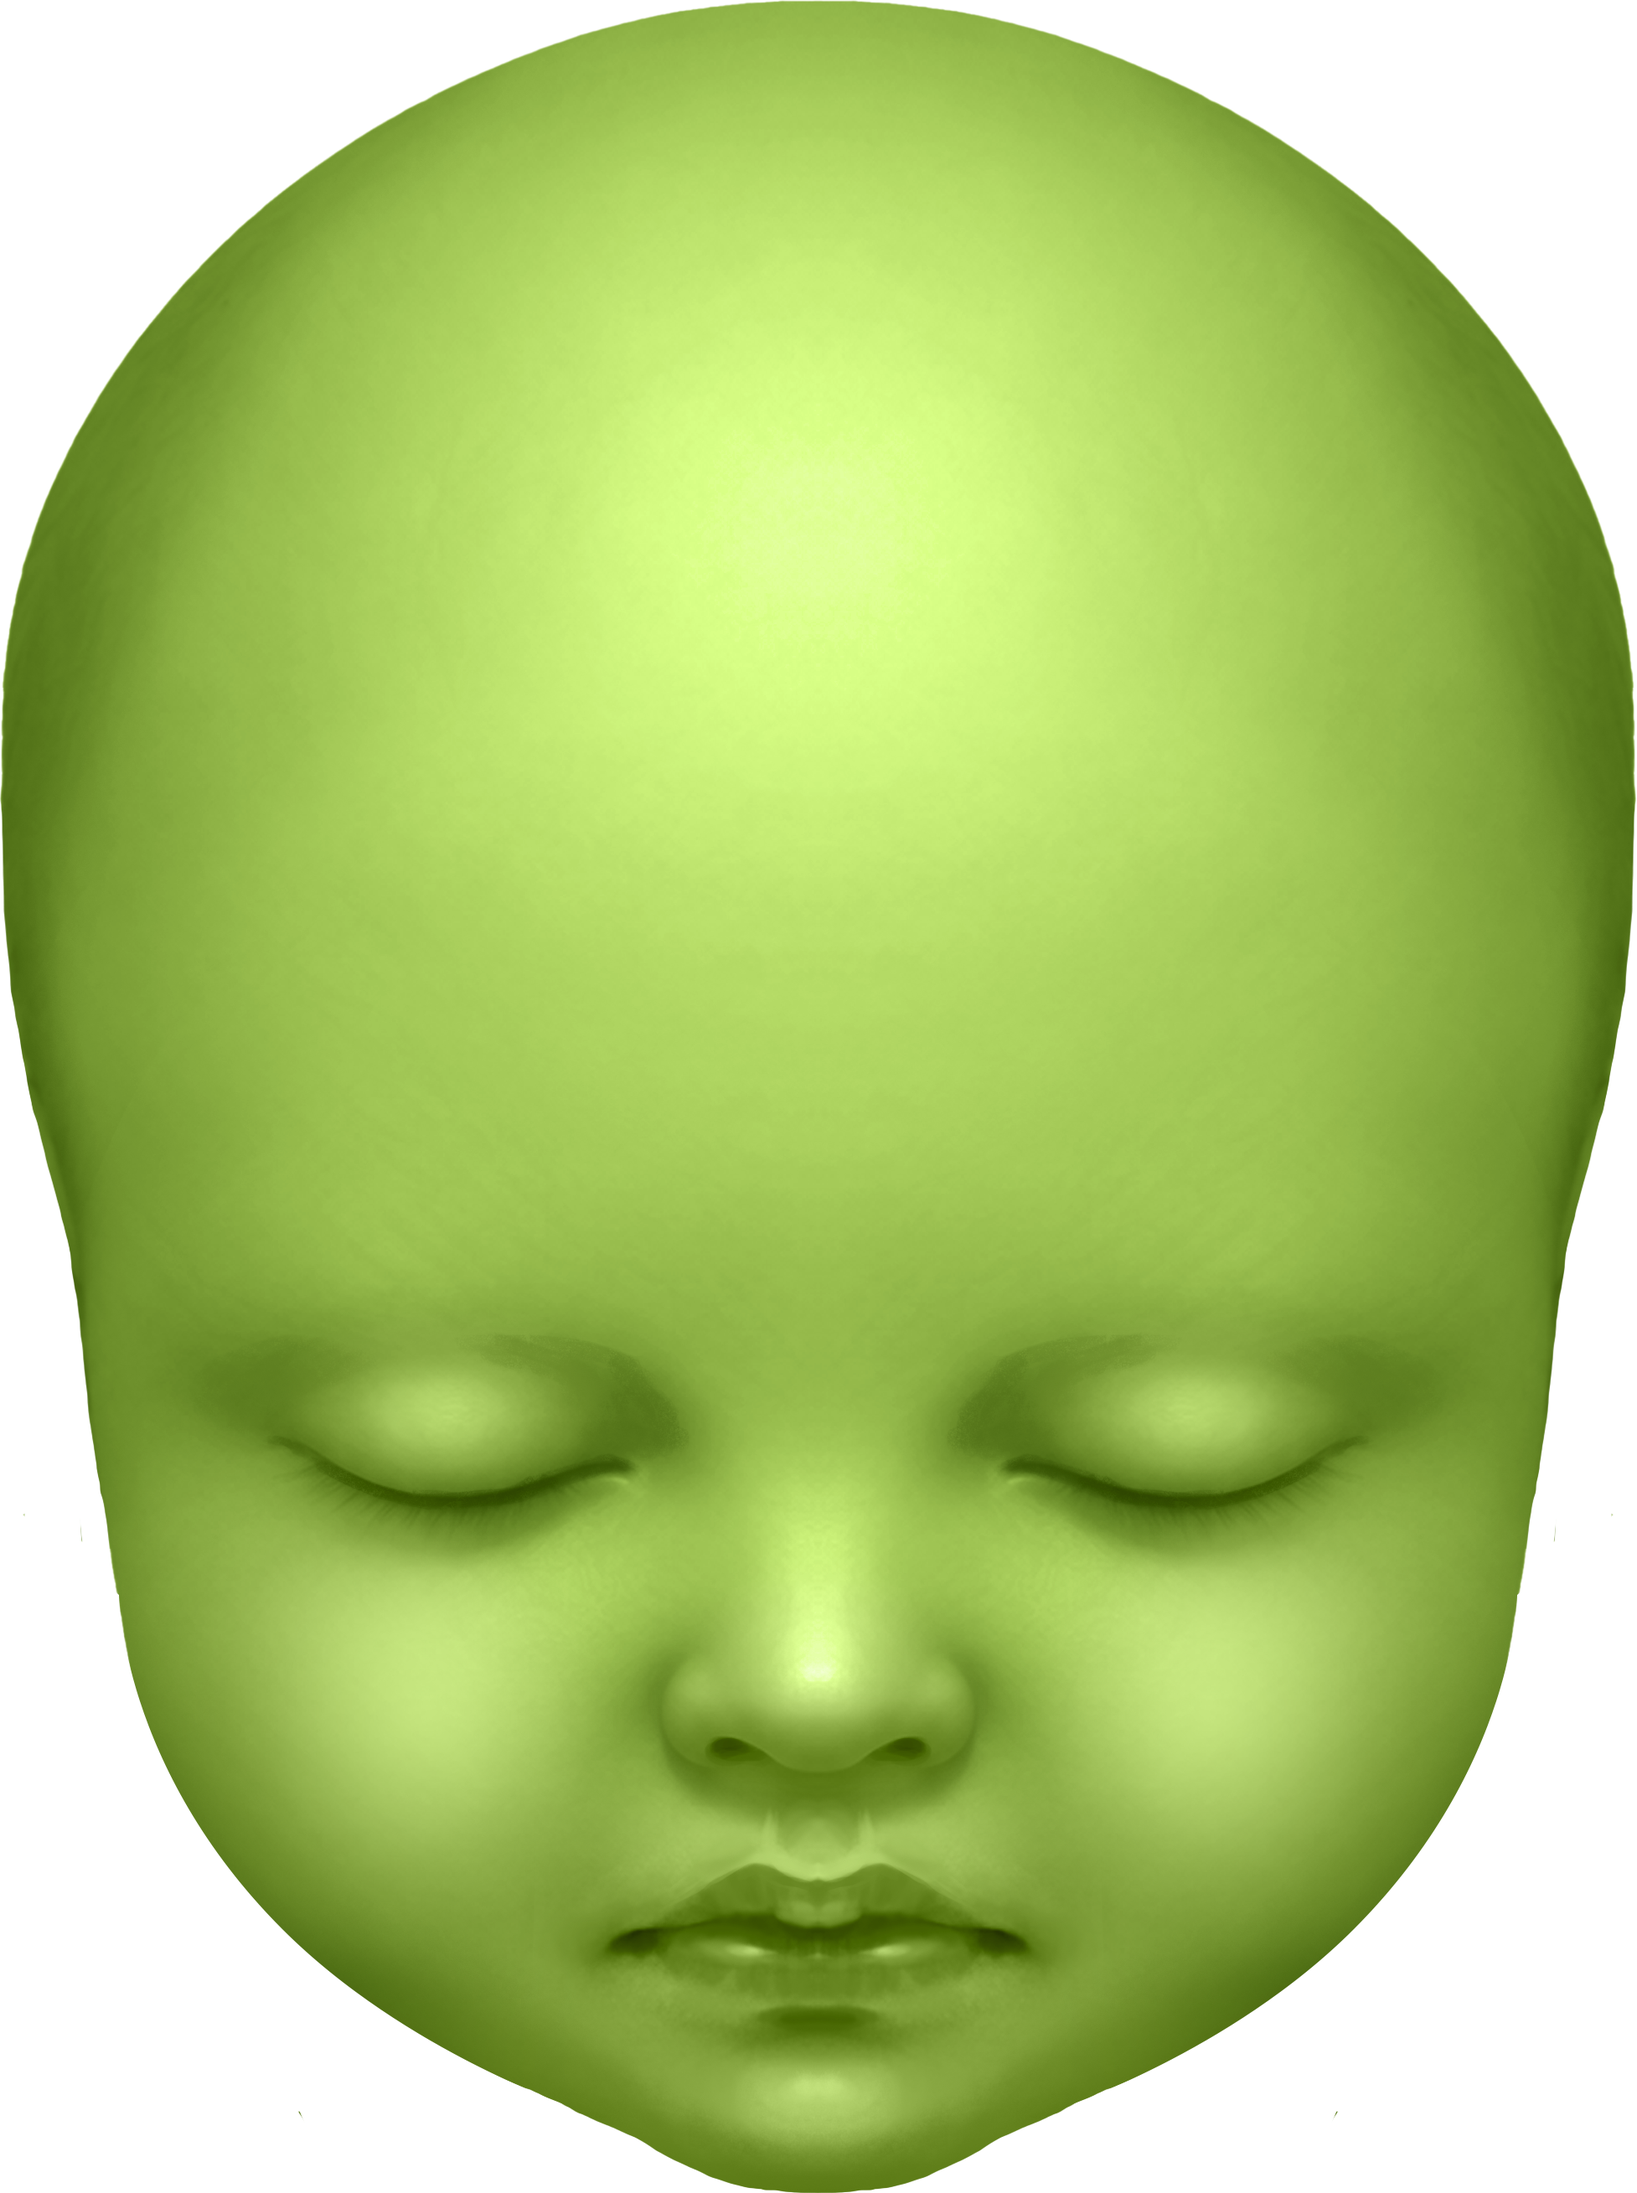
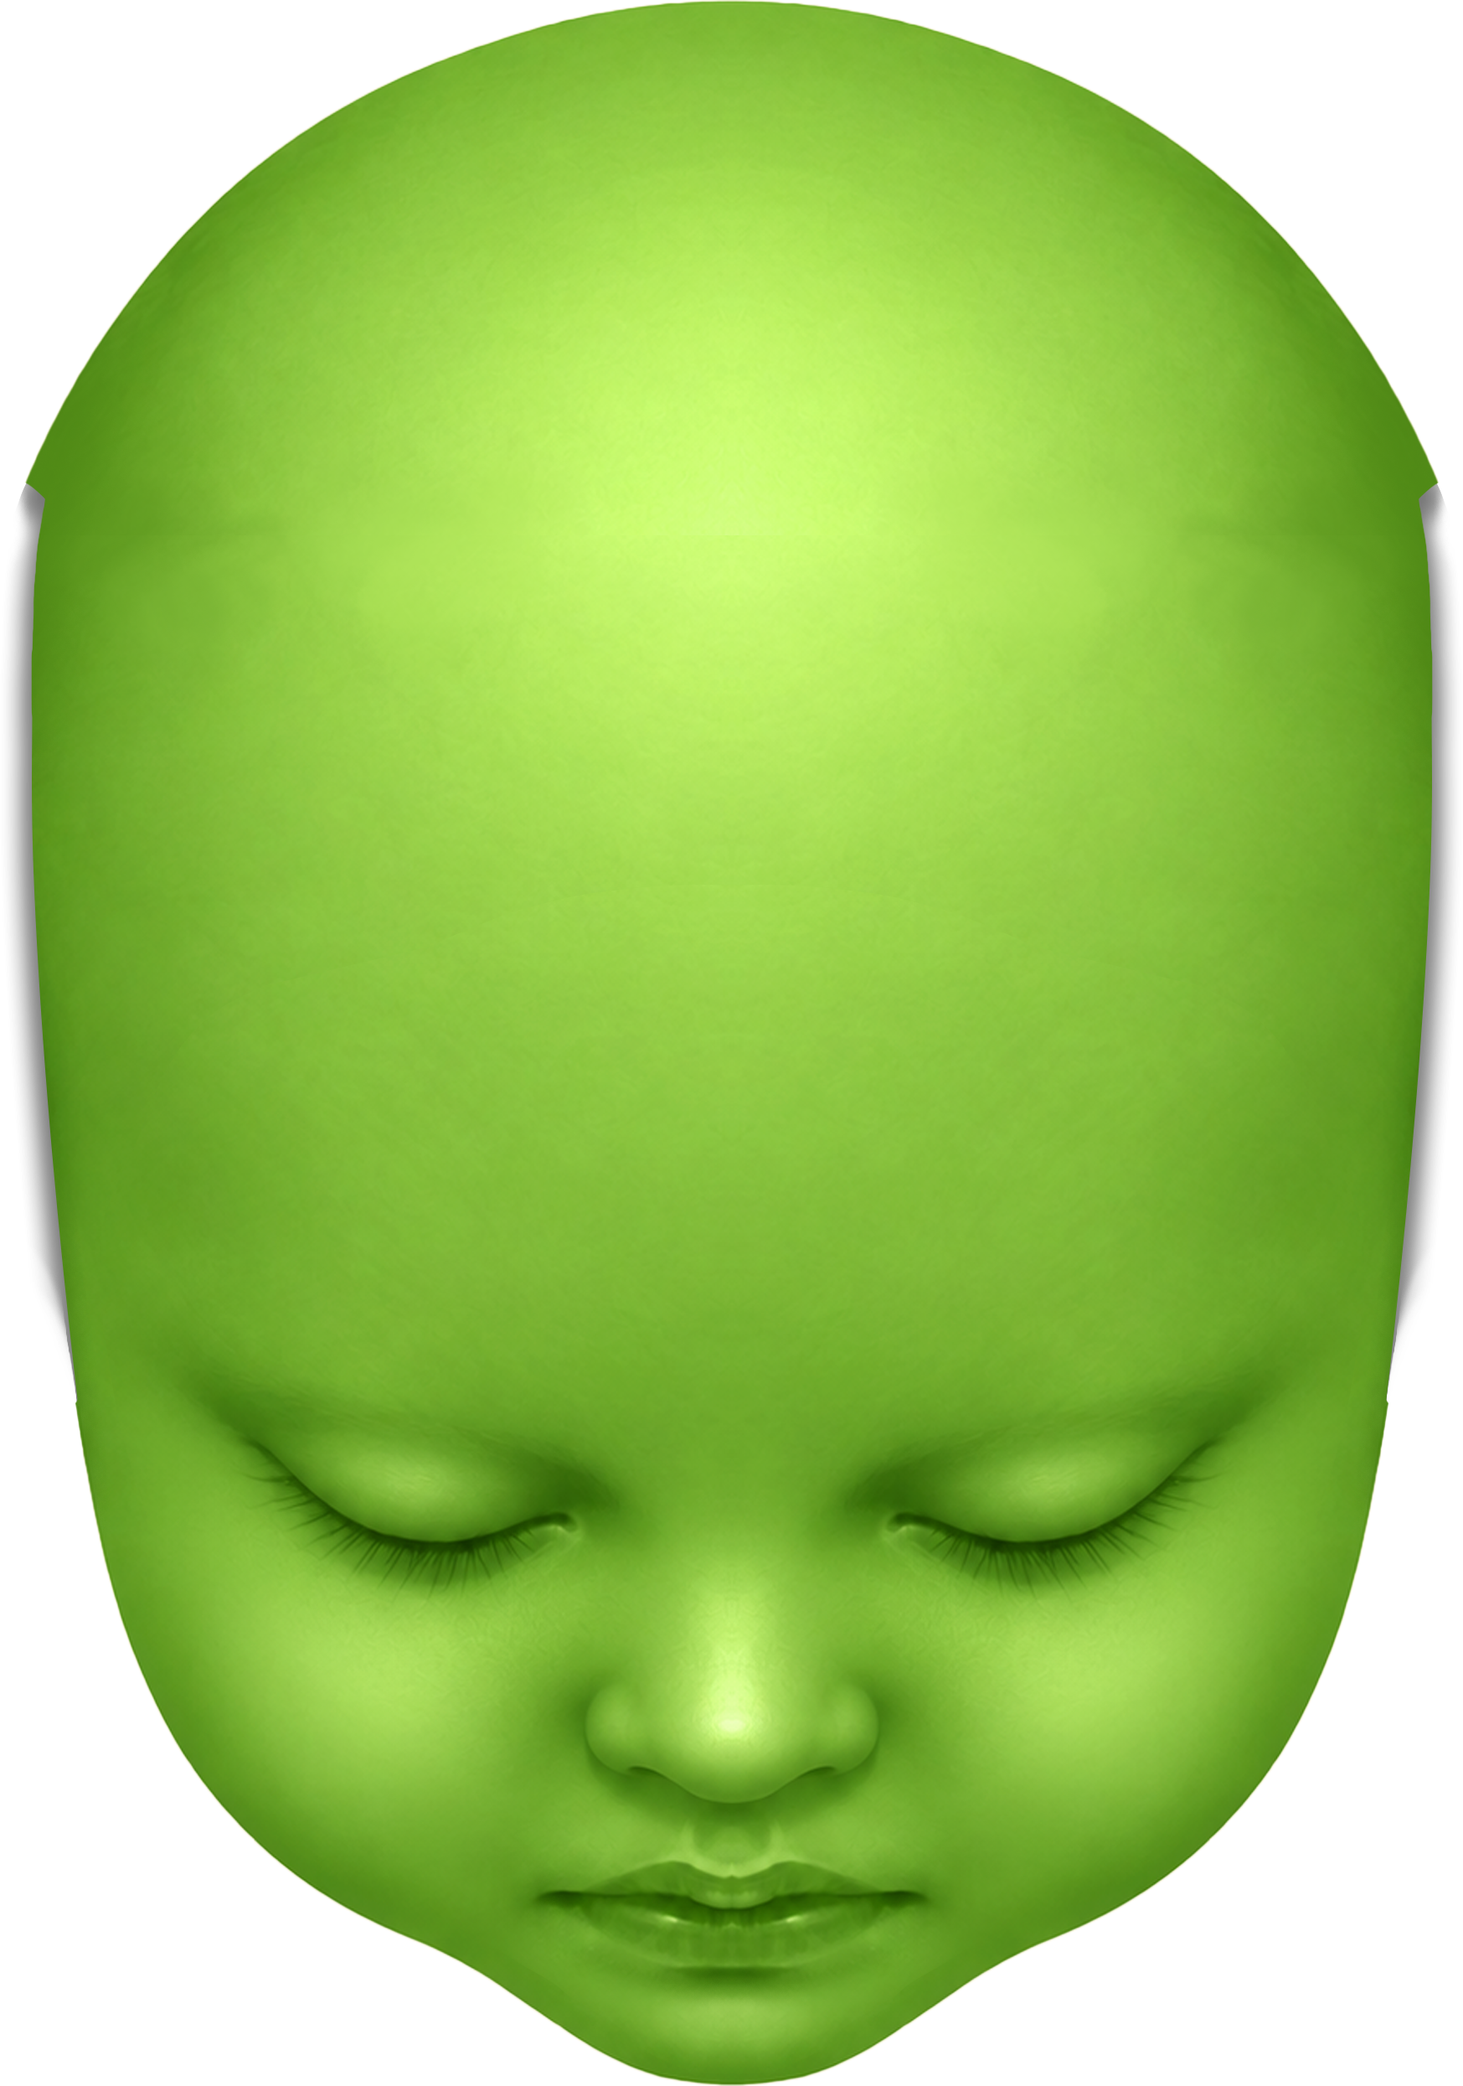
Updated the interface based from the new images.

diff --git a/src/App.jsx b/src/App.jsx
@@ -1,30 +1,9 @@
 import { useState } from "react";
 import "./App.css";
-import { MusicList } from "./components/MusicList";
-import { Monitor } from "./components/Monitor";
-import music from "./data/music.json";
 
-function App() {
+export const App = () => {
   const [isLeftPanelOpen, setIsLeftPanelOpen] = useState(true);
   const [isRightPanelOpen, setIsRightPanelOpen] = useState(true);
-  const [selectedTrack, setSelectedTrack] = useState(null);
-  const [isPlaying, setIsPlaying] = useState(false);
-
-  const selectTrack = (track) => {
-    setSelectedTrack(track);
-  };
-
-  const selectRelativeTrack = (offset) => {
-    const currentIndex = music.findIndex(
-      (track) => track._id === selectedTrack?._id,
-    );
-    const nextIndex =
-      currentIndex < 0
-        ? 0
-        : (currentIndex + offset + music.length) % music.length;
-
-    setSelectedTrack(music[nextIndex]);
-  };
 
   return (
     <main className="artwork" aria-label="Centered portrait artwork">
@@ -35,33 +14,30 @@ function App() {
           src="/images/head.png"
           alt="Green-toned portrait with closed eyes"
         />
-        <div className="monitor">
-          <img
-            className="artwork__forehead"
-            src="/images/forehead.png"
-            alt=""
-          />
-          <div className="monitor__view">
-            <Monitor
-              track={selectedTrack}
-              onPrevious={() => selectRelativeTrack(-1)}
-              onNext={() => selectRelativeTrack(1)}
-              onPlaybackStateChange={setIsPlaying}
-            />
-          </div>
-        </div>
+        {/* Left panel */}
         <div className="left-panel">
           <div className="panel-wrap panel-wrap__left">
             <div className="panel-speaker">
               <button
                 className="panel-button__arrow-left"
-                type="button"
                 aria-expanded={isLeftPanelOpen}
+                type="button"
                 aria-controls="left-panel-content"
                 onClick={() => setIsLeftPanelOpen((isOpen) => !isOpen)}
               >
-                <svg viewBox="0 0 1024 1024" xmlns="http://www.w3.org/2000/svg">
-                  <path d="M338.752 104.704a64 64 0 000 90.496l316.8 316.8-316.8 316.8a64 64 0 0090.496 90.496l362.048-362.048a64 64 0 000-90.496L429.248 104.704a64 64 0 00-90.496 0z" />
+                <svg
+                  viewBox="-0.5 0 7 7"
+                  version="1.1"
+                  xmlns="http://www.w3.org/2000/svg"
+                >
+                  <g transform="translate(-347.000000, -3766.000000)">
+                    <g id="icons" transform="translate(56.000000, 160.000000)">
+                      <path
+                        d="M296.494737,3608.57322 L292.500752,3606.14219 C291.83208,3605.73542 291,3606.25002 291,3607.06891 L291,3611.93095 C291,3612.7509 291.83208,3613.26444 292.500752,3612.85767 L296.494737,3610.42771 C297.168421,3610.01774 297.168421,3608.98319 296.494737,3608.57322"
+                        id="play-[#1003]"
+                      ></path>
+                    </g>
+                  </g>
                 </svg>
               </button>
               <img
@@ -85,16 +61,11 @@ function App() {
                 alt=""
                 aria-hidden="true"
               />
-              <div className="music-list">
-                <MusicList
-                  onTrackSelect={selectTrack}
-                  selectedTrackId={selectedTrack?._id}
-                  isPlaying={isPlaying}
-                />
-              </div>
+              <div className="music-list">THIS</div>
             </div>
           </div>
         </div>
+        {/* Right panel */}
         <div className="right-panel">
           <div className="panel-wrap panel-wrap__right">
             <div
@@ -111,13 +82,24 @@ function App() {
             <div className="panel-speaker">
               <button
                 className="panel-button__arrow-right"
-                type="button"
                 aria-expanded={isRightPanelOpen}
+                type="button"
                 aria-controls="right-panel-content"
                 onClick={() => setIsRightPanelOpen((isOpen) => !isOpen)}
               >
-                <svg viewBox="0 0 1024 1024" xmlns="http://www.w3.org/2000/svg">
-                  <path d="M685.248 104.704a64 64 0 010 90.496L368.448 512l316.8 316.8a64 64 0 01-90.496 90.496L232.704 557.248a64 64 0 010-90.496l362.048-362.048a64 64 0 0190.496 0z" />
+                <svg
+                  viewBox="-0.5 0 7 7"
+                  version="1.1"
+                  xmlns="http://www.w3.org/2000/svg"
+                >
+                  <g transform="translate(-347.000000, -3766.000000)">
+                    <g id="icons" transform="translate(56.000000, 160.000000)">
+                      <path
+                        d="M296.494737,3608.57322 L292.500752,3606.14219 C291.83208,3605.73542 291,3606.25002 291,3607.06891 L291,3611.93095 C291,3612.7509 291.83208,3613.26444 292.500752,3612.85767 L296.494737,3610.42771 C297.168421,3610.01774 297.168421,3608.98319 296.494737,3608.57322"
+                        id="play-[#1003]"
+                      ></path>
+                    </g>
+                  </g>
                 </svg>
               </button>
               <img
@@ -136,6 +118,4 @@ function App() {
       </div>
     </main>
   );
-}
-
-export default App;
+};

diff --git a/src/main.jsx b/src/main.jsx
@@ -1,10 +1,10 @@
-import { StrictMode } from 'react'
-import { createRoot } from 'react-dom/client'
-import App from './App.jsx'
-import './index.css'
+import { StrictMode } from "react";
+import { createRoot } from "react-dom/client";
+import { App } from "./App.jsx";
+import "./index.css";
 
-createRoot(document.getElementById('root')).render(
+createRoot(document.getElementById("root")).render(
   <StrictMode>
     <App />
   </StrictMode>,
-)
+);
